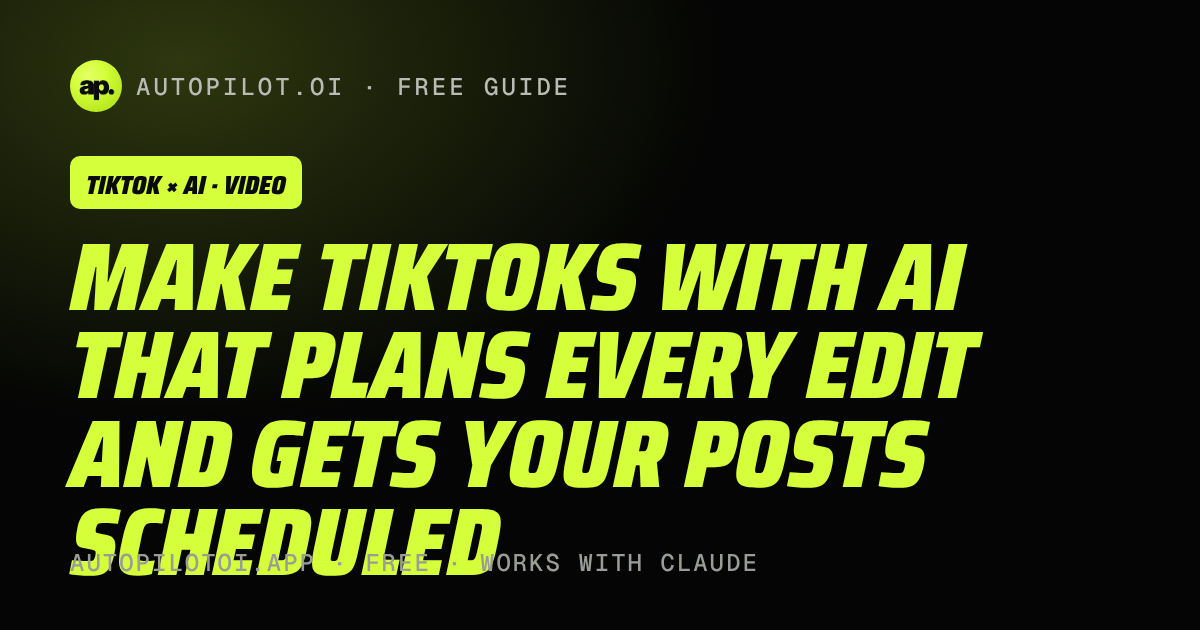
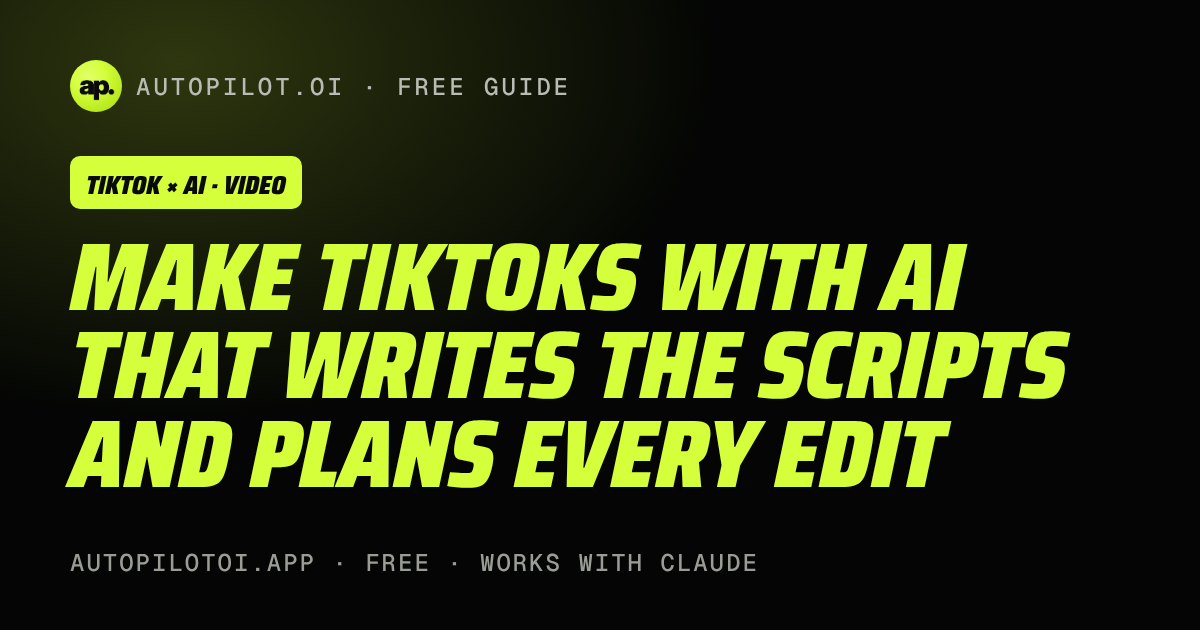
Builder: video guide headline no longer promises scheduled posts
Claude-Session: https://claude.ai/code/session_01LKQNuGeKUspJFRxajt5N28

Changed region(s): [[0.0617, 0.6635, 0.8017, 0.9349], [0.2158, 0.5127, 0.8942, 0.6333]]

diff --git a/docs/g/video/index.html b/docs/g/video/index.html
@@ -1,9 +1,9 @@
 <!DOCTYPE html><html lang="en"><head><meta charset="utf-8"><meta name="viewport" content="width=device-width,initial-scale=1">
-<title>Make TikToks with AI that plans every edit and gets your posts scheduled · AUTOPILOT.OI</title><meta name="description" content="Claude finds what works in your niche, writes the scripts, plans every cut and caption, and can schedule the posts if you connect a scheduler. You film and cut the clips.">
+<title>Make TikToks with AI that writes the scripts and plans every edit · AUTOPILOT.OI</title><meta name="description" content="Claude finds what works in your niche, writes the scripts, plans every cut and caption, and can schedule the posts if you connect a scheduler. You film and cut the clips.">
 <link rel="canonical" href="https://autopilotoi.app/g/video/"><meta property="og:type" content="article"><meta property="og:site_name" content="AUTOPILOT.OI">
-<meta property="og:title" content="Make TikToks with AI that plans every edit and gets your posts scheduled (free guide)"><meta property="og:description" content="Claude finds what works in your niche, writes the scripts, plans every cut and caption, and can schedule the posts if you connect a scheduler. You film and cut the clips."><meta property="og:url" content="https://autopilotoi.app/g/video/">
+<meta property="og:title" content="Make TikToks with AI that writes the scripts and plans every edit (free guide)"><meta property="og:description" content="Claude finds what works in your niche, writes the scripts, plans every cut and caption, and can schedule the posts if you connect a scheduler. You film and cut the clips."><meta property="og:url" content="https://autopilotoi.app/g/video/">
 <meta property="og:image" content="https://autopilotoi.app/g/video/og.png"><meta name="twitter:card" content="summary_large_image"><meta name="twitter:image" content="https://autopilotoi.app/g/video/og.png">
-<script type="application/ld+json">{"@context": "https://schema.org", "@type": "HowTo", "name": "Make TikToks with AI that plans every edit and gets your posts scheduled", "description": "Claude finds what works in your niche, writes the scripts, plans every cut and caption, and can schedule the posts if you connect a scheduler. You film and cut the clips.", "totalTime": "PT30M", "tool": [{"@type": "HowToTool", "name": "Claude"}], "step": [{"@type": "HowToStep", "position": 1, "name": "Find what's working in your niche", "text": "Open TikTok, search your niche, and write down the first line (the hook) and topic of 10 recent videos (last 30 days) from accounts close to your size that got far more views than they have followers. Huge accounts teach the wrong lessons. Paste them into Claude:"}, {"@type": "HowToStep", "position": 2, "name": "Write a week of scripts in one go", "text": "Pick your best 7 ideas and have Claude write them so they're ready to film:"}, {"@type": "HowToStep", "position": 3, "name": "Turn each script into an edit plan", "text": "This is the part that makes AI your editor. Claude can't cut the video itself, but it tells you exactly where every cut, caption and sound goes:"}, {"@type": "HowToStep", "position": 4, "name": "Edit fast in CapCut", "text": "Film the shots, drop them in CapCut, cut where the plan says, and use Auto captions so the words appear on screen. Captions help people who watch in noisy places or with the sound off, and they make your video easier to find in TikTok search. For anything you sell, only use sounds from TikTok's or CapCut's commercial library. If you ever use AI to make realistic people, voices or scenes, turn on TikTok's AI generated content label."}, {"@type": "HowToStep", "position": 5, "name": "Get the caption, hashtags and cover", "text": "Put the words people would search for in your caption and on screen text, and say them out loud in the first few seconds: TikTok uses all three to show your video in search. Paste the final script and let Claude write the post:"}, {"@type": "HowToStep", "position": 6, "name": "Get it posted on time", "text": "With a Creator or Business account, TikTok Studio in a browser lets you schedule videos up to 10 days ahead. A scheduler like Metricool lets you schedule from your phone, and if you connect Metricool to Claude, Claude can fill in the caption and time and schedule it: you upload the video, it does the rest. Metricool's free plan covers about 20 scheduled posts a month, so daily posting needs a paid plan or TikTok Studio. Schedulers usually can't add TikTok Shop product links or trending sounds, so post shoppable videos from the TikTok app."}, {"@type": "HowToStep", "position": 7, "name": "Review every week and double down", "text": "Once a week, paste your numbers so Claude tells you what to make more of:"}]}</script>
+<script type="application/ld+json">{"@context": "https://schema.org", "@type": "HowTo", "name": "Make TikToks with AI that writes the scripts and plans every edit", "description": "Claude finds what works in your niche, writes the scripts, plans every cut and caption, and can schedule the posts if you connect a scheduler. You film and cut the clips.", "totalTime": "PT30M", "tool": [{"@type": "HowToTool", "name": "Claude"}], "step": [{"@type": "HowToStep", "position": 1, "name": "Find what's working in your niche", "text": "Open TikTok, search your niche, and write down the first line (the hook) and topic of 10 recent videos (last 30 days) from accounts close to your size that got far more views than they have followers. Huge accounts teach the wrong lessons. Paste them into Claude:"}, {"@type": "HowToStep", "position": 2, "name": "Write a week of scripts in one go", "text": "Pick your best 7 ideas and have Claude write them so they're ready to film:"}, {"@type": "HowToStep", "position": 3, "name": "Turn each script into an edit plan", "text": "This is the part that makes AI your editor. Claude can't cut the video itself, but it tells you exactly where every cut, caption and sound goes:"}, {"@type": "HowToStep", "position": 4, "name": "Edit fast in CapCut", "text": "Film the shots, drop them in CapCut, cut where the plan says, and use Auto captions so the words appear on screen. Captions help people who watch in noisy places or with the sound off, and they make your video easier to find in TikTok search. For anything you sell, only use sounds from TikTok's or CapCut's commercial library. If you ever use AI to make realistic people, voices or scenes, turn on TikTok's AI generated content label."}, {"@type": "HowToStep", "position": 5, "name": "Get the caption, hashtags and cover", "text": "Put the words people would search for in your caption and on screen text, and say them out loud in the first few seconds: TikTok uses all three to show your video in search. Paste the final script and let Claude write the post:"}, {"@type": "HowToStep", "position": 6, "name": "Get it posted on time", "text": "With a Creator or Business account, TikTok Studio in a browser lets you schedule videos up to 10 days ahead. A scheduler like Metricool lets you schedule from your phone, and if you connect Metricool to Claude, Claude can fill in the caption and time and schedule it: you upload the video, it does the rest. Metricool's free plan covers about 20 scheduled posts a month, so daily posting needs a paid plan or TikTok Studio. Schedulers usually can't add TikTok Shop product links or trending sounds, so post shoppable videos from the TikTok app."}, {"@type": "HowToStep", "position": 7, "name": "Review every week and double down", "text": "Once a week, paste your numbers so Claude tells you what to make more of:"}]}</script>
 <link rel="preconnect" href="https://fonts.googleapis.com"><link rel="preconnect" href="https://fonts.gstatic.com" crossorigin>
 <link href="https://fonts.googleapis.com/css2?family=Geist:wght@400;500;600;700;800&display=swap" rel="stylesheet">
 <style>
@@ -40,7 +40,7 @@ h2{font:900 italic 34px/1 'Saira Semi Condensed',Impact,sans-serif;text-transfor
 .toast{position:fixed;left:50%;bottom:24px;transform:translate(-50%,120px);background:var(--l);color:#0a0a0a;font:700 13px 'Geist Mono',ui-monospace,monospace;padding:12px 18px;border-radius:12px;transition:transform .3s}.toast.on{transform:translate(-50%,0)}
 </style><link rel="stylesheet" href="/assets/brand.css"></head><body><div class="w">
 <div class="top"><img src="../../logo-128.png" alt=""><b>AUTOPILOT.OI</b><span>FREE GUIDE</span></div>
-<div class="hero"><span class="tag">TIKTOK × AI · VIDEO</span><h1>Make TikToks with AI that plans every edit and gets your posts scheduled</h1><p class="sub">Claude finds what works in your niche, writes the scripts, plans every cut and caption, and can schedule the posts if you connect a scheduler. You film and cut the clips.</p>
+<div class="hero"><span class="tag">TIKTOK × AI · VIDEO</span><h1>Make TikToks with AI that writes the scripts and plans every edit</h1><p class="sub">Claude finds what works in your niche, writes the scripts, plans every cut and caption, and can schedule the posts if you connect a scheduler. You film and cut the clips.</p>
 <div class="topcard" style="display:flex;gap:14px;align-items:center;background:#0e0f0d;border:1px solid #D4FF3A55;border-radius:18px;padding:14px;margin:6px 0 22px"><video src="/media/freel/web/content-machine.mp4" poster="/media/freel/content-machine-poster.jpg" autoplay muted loop playsinline preload="metadata" style="width:118px;aspect-ratio:9/16;object-fit:cover;border-radius:12px;flex:0 0 auto;background:#000"></video><div style="min-width:0"><div style="font:700 11px 'Geist Mono',monospace;letter-spacing:1.5px;color:#D4FF3A">DONE FOR YOU</div><div style="font-weight:800;font-size:20px;line-height:1.15;margin:4px 0 6px">Video Agent</div><div style="font-size:14px;line-height:1.4;opacity:.8;margin-bottom:10px">A Claude Project that knows your niche, your voice and your best videos, and every week hands you scripts, edit plans and ready to post captions.</div><a href="https://autopilotoi.gumroad.com/l/video-agent" style="display:inline-block;background:#D4FF3A;color:#050505;text-decoration:none;font:700 13px 'Geist Mono',monospace;letter-spacing:1.2px;border-radius:10px;padding:11px 14px">GET IT · $10</a><div class="ap-launch-price" style="display:none;font-size:12px;margin-top:6px;color:#D4FF3A">$7 this week with LAUNCH30, applied at checkout</div><div style="font-size:12px;opacity:.6;margin-top:6px">Or follow the free guide below.</div></div></div><div class="meta"><div><b>TIME</b>About 1 hour for a full week of videos</div><div><b>YOU NEED</b>A phone, CapCut (free), and Claude</div><div><b>COST</b>Free</div></div></div>
 <div class="why">Most of the work in a TikTok isn&#x27;t filming. It&#x27;s the hook, the script, the cuts, the captions and posting at the right time. Claude does the thinking and writing, CapCut does the cutting, and a scheduler posts on time.</div><h2>Step by step</h2>
 <div class="st"><div class="n">1</div><h3>Find what&#x27;s working in your niche</h3><p>Open TikTok, search your niche, and write down the first line (the hook) and topic of 10 recent videos (last 30 days) from accounts close to your size that got far more views than they have followers. Huge accounts teach the wrong lessons. Paste them into Claude:</p><div class="pr" id="p1">Here are the hooks and topics of 10 high view TikToks from the last 30 days in my niche [niche]: [paste]. Find the patterns: which hook styles repeat, which topics, how fast they get to the point, and what makes people comment. Then give me 10 video ideas for my account that use those patterns but say something new. My account is about [what you do] for [who].<button class="cp" data-c="p1">COPY</button></div></div>

diff --git a/tools/guides/guides.py b/tools/guides/guides.py
@@ -111,7 +111,7 @@ G["raise"] = dict(
 )
 TT = dict(cat="TIKTOK × AI", bundle_link="tiktok-agents", bundle_txt="$10, or all 3 TikTok agents for $24.", bundle_btn="ALL 3 · $24")
 G["video"] = dict(TT,
- kw="VIDEO", title="Make TikToks with AI that plans every edit and gets your posts scheduled", sub="Claude finds what works in your niche, writes the scripts, plans every cut and caption, and can schedule the posts if you connect a scheduler. You film and cut the clips.",
+ kw="VIDEO", title="Make TikToks with AI that writes the scripts and plans every edit", sub="Claude finds what works in your niche, writes the scripts, plans every cut and caption, and can schedule the posts if you connect a scheduler. You film and cut the clips.",
  time="About 1 hour for a full week of videos", need="A phone, CapCut (free), and Claude",
  why="Most of the work in a TikTok isn't filming. It's the hook, the script, the cuts, the captions and posting at the right time. Claude does the thinking and writing, CapCut does the cutting, and a scheduler posts on time.",
  steps=[

diff --git a/growth-os/operations/decision-log.md b/growth-os/operations/decision-log.md
@@ -164,3 +164,4 @@
 - X questions: 15 at 1 an hour, queue/x/2026-11-10-questions.json, none repeated from Nov 3 to 9. Rollback: draft the uuids.
 - Threads batch skipped: Threads still not connected in Metricool (4th day).
 - 2026-11-10 11:55 ART: builder removed the "tap for sound" pill from the store and library demo videos (tools/store/pages.py video_block now adds it only for ads/ videos, which have audio; click handler guarded when no pill). Why: Fix needed item from Nov 9; all 26 docs/media/freel/web/*.mp4 have 0 audio streams (ffprobe, make.sh final uses -an), so the pill promised sound that never played. Checked /store/subs/ and /library/ at 390px and 1280px: no overflow, no JS errors, buy buttons intact. Also traced the freel.yml failure to an ElevenLabs 401 (secret needs Seb, noted in Fix needed). Rollback: git revert this commit and rerun python3 tools/store/pages.py.
+- 2026-11-10 17:55 ART: builder changed the /g/video/ guide headline "Make TikToks with AI that plans every edit and gets your posts scheduled" to "Make TikToks with AI that writes the scripts and plans every edit" (tools/guides/guides.py, rebuilt with build.py and og.py: title, og:title, HowTo name, h1, og.png). Why: overclaim; the guide's own step 6 says scheduling only happens if you connect Metricool or use TikTok Studio, and the free Metricool plan does not cover daily posting; the subline already states the scheduler condition. Checked at 390 and 1280: no overflow, 0 JS errors, 3 buy links to live products with UTM. Rollback: git revert.
